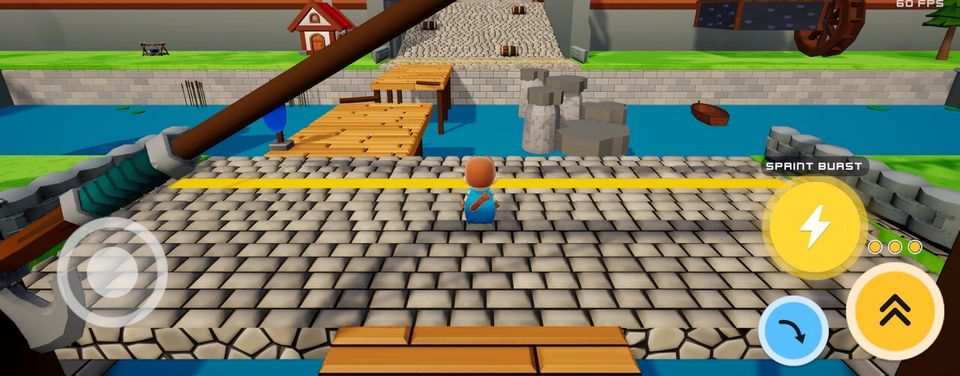
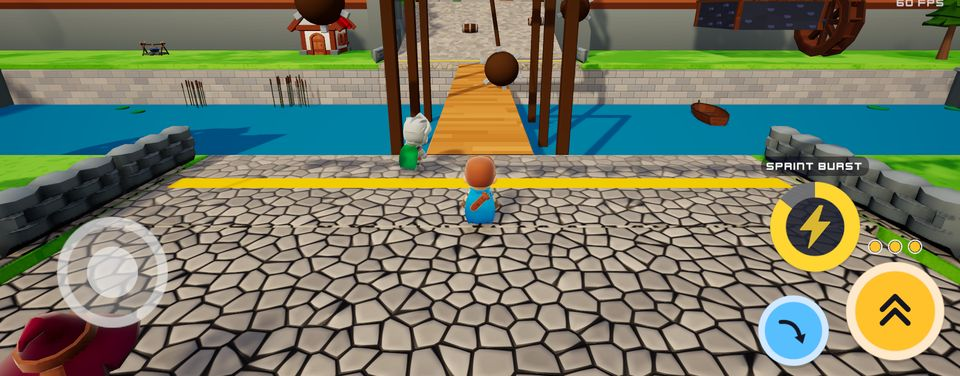
Add build 0.1.14; screenshots from 0.1.14
Claude-Session: https://claude.ai/code/session_01FzaHRGmKnmzZe5ChVzUqpL

diff --git a/index.html b/index.html
@@ -123,8 +123,8 @@ footer { padding-block: 40px calc(40px + env(safe-area-inset-bottom, 0px)); colo
       <p class="eyebrow">Android test builds</p>
       <h1>ChibyRace</h1>
       <p class="lede">A party obstacle race: 8 racers, 4 maps, and traps that change every race.</p>
-      <a class="btn" href="https://github.com/AudriusBen/chibyrace-builds/releases/download/v0.1.13/ChibyRace-0.1.13.apk">
-        <b>Download 0.1.13</b>
+      <a class="btn" href="https://github.com/AudriusBen/chibyrace-builds/releases/download/v0.1.14/ChibyRace-0.1.14.apk">
+        <b>Download 0.1.14</b>
         <small>APK · 96.2 MB</small>
       </a>
       <ul class="facts">
@@ -149,8 +149,8 @@ footer { padding-block: 40px calc(40px + env(safe-area-inset-bottom, 0px)); colo
   </section>
 
   <section class="wrap" aria-labelledby="new">
-    <div class="section-head"><h2 id="new">New in 0.1.13</h2></div>
-    <ul class="new"><li>Real planks, cobblestones and paving slabs on the run surfaces.</li><li>Falling tiles keep their colour after they come back.</li><li>GRAPHICS FAST turns the new pieces off for slower phones.</li></ul>
+    <div class="section-head"><h2 id="new">New in 0.1.14</h2></div>
+    <ul class="new"><li>Back to the painted ground of 0.1.12: the real pieces of 0.1.13 looked unnatural, especially where surfaces change.</li><li>Falling tiles keep their colour after they come back.</li></ul>
   </section>
 
   <section class="wrap" aria-labelledby="maps">
@@ -176,14 +176,25 @@ footer { padding-block: 40px calc(40px + env(safe-area-inset-bottom, 0px)); colo
   </section>
 
   <section class="wrap" aria-labelledby="all">
-    <div class="section-head"><h2 id="all">All builds</h2><p>12 builds, newest first.</p></div>
+    <div class="section-head"><h2 id="all">All builds</h2><p>13 builds, newest first.</p></div>
     <ul class="builds">
-      <li class="build" id="v0-1-13">
+      <li class="build" id="v0-1-14">
         <div class="build-head">
-          <span class="ver">0.1.13</span><span class="pill">Latest</span>
+          <span class="ver">0.1.14</span><span class="pill">Latest</span>
           <span class="meta">27 Oct 2026 · 96.2 MB</span>
         </div>
-        <ul class="notes"><li>Real planks, cobblestones and paving slabs on the run surfaces.</li><li>Falling tiles keep their colour after they come back.</li><li>GRAPHICS FAST turns the new pieces off for slower phones.</li></ul>
+        <ul class="notes"><li>Back to the painted ground of 0.1.12: the real pieces of 0.1.13 looked unnatural, especially where surfaces change.</li><li>Falling tiles keep their colour after they come back.</li></ul>
+        <div class="build-foot">
+          <a class="btn-line" href="https://github.com/AudriusBen/chibyrace-builds/releases/download/v0.1.14/ChibyRace-0.1.14.apk">Download 0.1.14</a>
+          <details><summary>SHA-256</summary><code>6468e70d20c4b5df595fff6dadc604663c3fb58d895c4de1b84152ff516ca4ac</code></details>
+        </div>
+      </li>
+      <li class="build" id="v0-1-13">
+        <div class="build-head">
+          <span class="ver">0.1.13</span>
+          <span class="meta">27 Oct 2026 · 96.2 MB</span>
+        </div>
+        <ul class="notes"><li>Real planks, cobblestones and paving slabs on the run surfaces (taken back out in 0.1.14).</li><li>Falling tiles keep their colour after they come back.</li></ul>
         <div class="build-foot">
           <a class="btn-line" href="https://github.com/AudriusBen/chibyrace-builds/releases/download/v0.1.13/ChibyRace-0.1.13.apk">Download 0.1.13</a>
           <details><summary>SHA-256</summary><code>f789f7051a340beeba16ab771500fac83117221ee969155a9f8f7022f88d351d</code></details>
